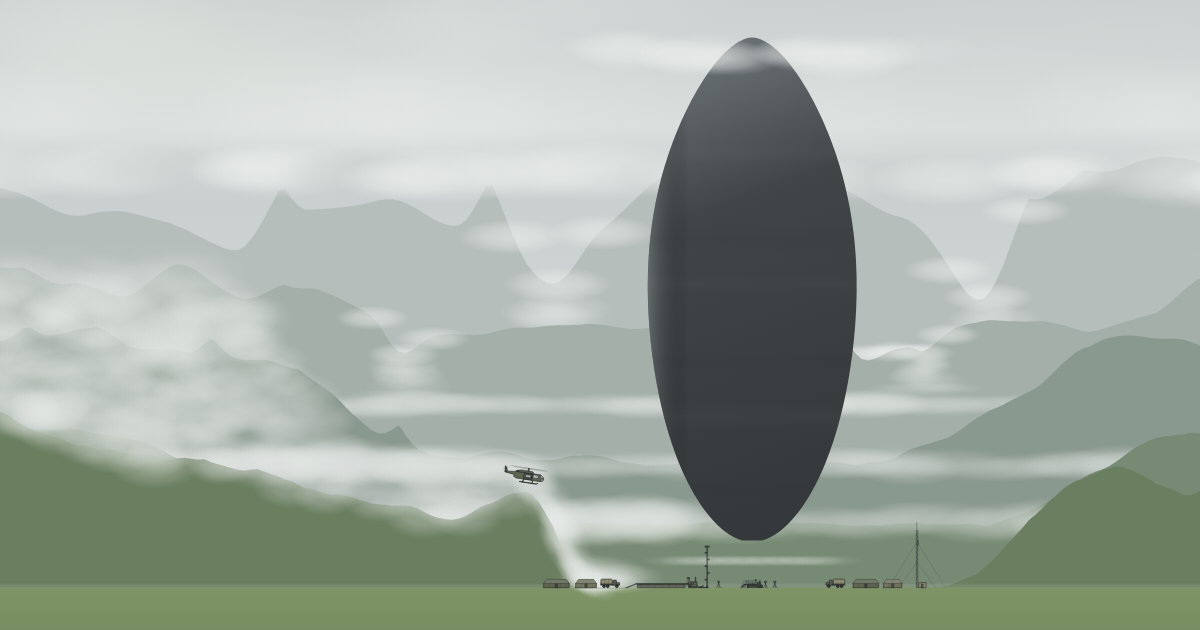
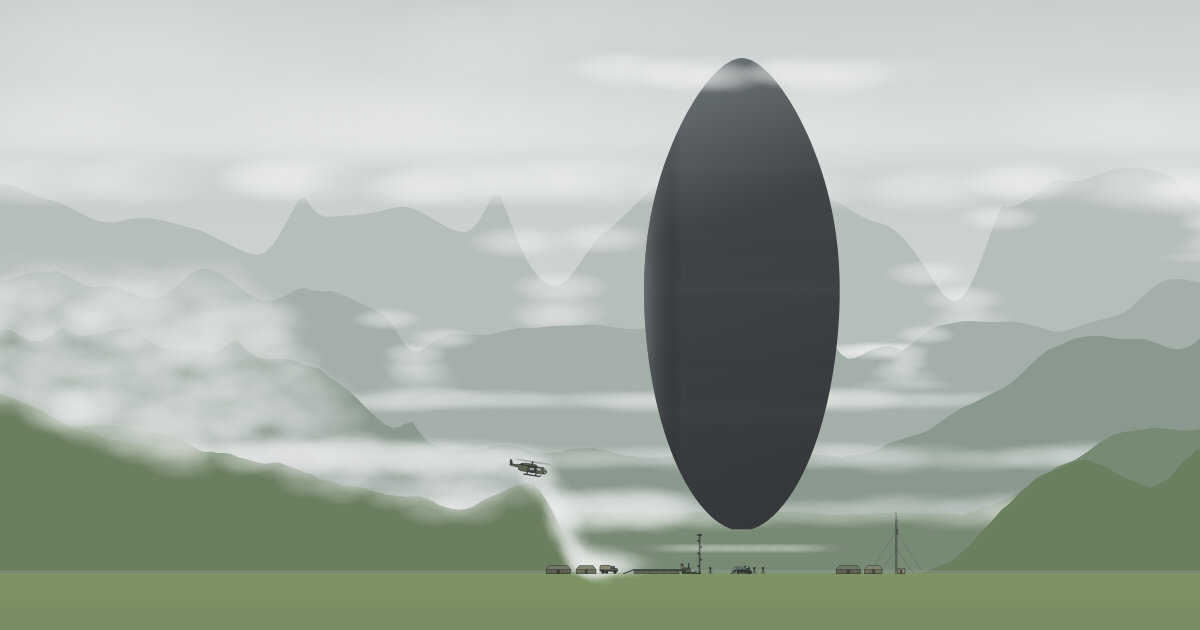
Logogram: the report follows the polish pass; the share card re-rendered
LOGOGRAM.md: the changed beats in the table (the reveal's cut, the slot held
open, the glass waking out of the dark, the entrances, the first logogram,
the flashes, the push, the meadow, the coda), the new times (credits at
219.6, 4:11 in all), the new checks, and a "Polish pass" section listing
what changed by beat. The share card (still 16.4, the great wide) is
re-rendered: the wide now comes by a cut, and the camp's right-hand truck
is gone.

diff --git a/apps/rube/src/shows/versions/heptapod-b/LOGOGRAM.md b/apps/rube/src/shows/versions/heptapod-b/LOGOGRAM.md
@@ -12,7 +12,7 @@ Open it at `/shows/heptapod-b/opus55/` (or `/shows/?show=heptapod-b&take=opus55`
 ## What it is
 
 A Rube Goldberg machine plays the cue from its first sample, 3:42, and the end credits run on in the quiet after it:
-4:08 in all. It is one ball on one path through four places, and it is a circle, as the film is: the last scene opens
+4:11 in all. It is one ball on one path through four places, and it is a circle, as the film is: the last scene opens
 on the show's first frame.
 
 - **Louise Banks** is the orange ball (`#E2672C`), hazmat orange, the suit the team wears into the shell. She is the
@@ -87,20 +87,20 @@ Times are show seconds; pulse *k* is `pulse(k)`, and a strength in brackets is h
 | Time | Music | Place | What happens |
 | ---: | --- | --- | --- |
 | 0 | murmurs | the lake house | Dawn. The long window over the lake, fog on the water. Louise on the bench under it; Hannah across the room. On the first murmur that carries (1.573) Hannah sets off, springs (3.582), lands on the bench's end (3.831) and touches her mother on the click (4.098). They turn to the window (5.242, 5.486); the sun catches the water on the first pulse (6.763), and the glare grows to white. |
-| 8.911 | the first great pulse (1.46) | the valley | Out of the white: the helicopter hanging in the cloud, Louise and Ian in its side window. It lurches off (9.741), pushes out of the cloud bank (11.099), and tops the crest on 16.283 (1.31): the great wide, the valley under low cloud, the fog pouring over the ridges, and the shell hanging over the meadow, the helicopter a speck against it. Nose up (18.013), and down to the pad on 22.059. |
-| 22.059 | the pulse whole | the base | The door hits its stop; out onto the helideck, Ian after her. Her machine: into a bucket whose rope is wound on the generator's flywheel, which thuds down and tips her out; the engine coughs and catches (28.021), puffing on every pulse, each puff as big as the pulse is hard; a plank tipped onto the switch; the mast's lamps come on one a pulse. **The first burst (36.368 → 37.808): the slot in the shell's belly opens in six steps**, its light spilling down on the camp, and the floods answer (38.534, 38.772, 39.735). Up the steps onto the lift's deck. |
+| 8.911 | the first great pulse (1.46) | the valley | Out of the white: the helicopter hanging in the cloud, Louise and Ian in its side window. It lurches off (9.741), pushes out of the cloud bank (11.099), and the camera goes with it over the ridge, never far enough back to see over it; it tops the crest on 16.283 (1.31) and the picture cuts to the great wide, the shell first seen whole: the valley under low cloud, the fog pouring over the ridges, and the shell hanging over the meadow, the helicopter a speck against it. Nose up (18.013), and down to the pad on 22.059. |
+| 22.059 | the pulse whole | the base | The door hits its stop; out onto the helideck, Ian after her. Her machine: into a bucket whose rope is wound on the generator's flywheel, which thuds down and tips her out; the engine coughs and catches (28.021), puffing on every pulse, each puff as big as the pulse is hard; a plank tipped onto the switch; the mast's lamps come on one a pulse. **The first burst (36.368 → 37.808): the slot in the shell's belly opens in six steps**, seen from under the belly, each step a flash of its light spilling down on the camp, held open until the floods answer (38.534, 38.772, 39.735). Up the steps onto the lift's deck. |
 | 43.758 | a hard pulse (1.16) | the lift | The scissor lift's engine catches; its seven stages open one after another from the bottom, each surging, stopping on its ram's end and latching on a pulse. Up into the band of fog under the belly (52.849), out of it on 54.509 (1.43), the fog it dragged up flung off; the look up at the belly's dome; the deck rising into the slot. |
 | 65.985 | the third layer | the shaft | Inside: the deck in the shaft's mouth, the camera turned a quarter, the valley's daylight glowing up the throat. The deck knocks home (67.431); she presses the work light's switch (68.383) and it catches (68.621), its beam going up the shaft. **On the great burst (70.513) she leaps and gravity turns under her**: her path the throw in a turning gravity, onto the wall that becomes the floor, the camera turning after gravity like a heavy body, a few degrees past square and settling, the dust turning with gravity. Landings and damped bounces on the burst's hard pulses, Ian a pulse behind; the work light tips on its yoke and knocks its bracket (71.703). Then the long shaft to the light in stone, its length shown in one breath, low floating hops over its ribs (the first leaving on 73.120), and a threshold ridge at the opening that Ian hops after her, landing on 85.786. |
-| 85.786 | a hard pulse (1.04) | the chamber | Out onto the chamber's floor in the dark. The glass wakes in two steps (87.226, 87.464): a great wall of white light. The walk to it; a shadow in the fog behind it, darkening on unseen footfalls (94.128, 96.044, 97.007). **Abbott comes out of the white on 97.239 (1.17)**, each limb set down on a hard pulse; **Costello on 101.303 (1.13)**. The grand wide: the glass, two giants, the two of them tiny at its foot. Abbott's limb reaches down, its tip opens into a palm (118.700), and **presses flat on the glass on 119.658 as she reaches it**. Costello's jet of ink (121.574), and the first logogram is written in the fog on the pulse (122.061, 123.257, 124.227) as the giants sink back into it, its two ends meeting on **126.131**, the last pulse before the swell: the whole logogram in the middle of the glass, larger than the palm by far, putting out its tendrils (127.321) through the swell to the white. |
+| 85.786 | a hard pulse (1.04) | the chamber | Out onto the chamber's floor in the dark. The glass, dark, wakes in two steps (87.226, 87.464): a great wall of white light. The walk to it; a shadow in the fog behind it, darkening on unseen footfalls (94.128, 96.044, 97.007). **Abbott comes out of the white on 97.239 (1.17)**, more than half the way at once, each limb set down on a hard pulse; **Costello on 101.303 (1.13)**. The grand wide: the glass, two giants, the two of them tiny at its foot. Abbott's limb reaches down, its tip opens into a palm (118.700), and **presses flat on the glass on 119.658 as she reaches it**. Costello's jet of ink (121.574), and the first logogram is written in the fog on the pulse (122.061, 123.257, 124.227) as the giants sink back into it, its two ends meeting on **126.131**, the last pulse before the swell: the whole logogram in the middle of the glass, larger than the palm by far, putting out its tendrils (127.321) through the swell to the white. |
 | 130.409 | the loudest swell | the fog | White. Beyond the glass she rests in the cup of Abbott's palm; Costello's jet goes down and a ring blooms from its bottom both ways round; the palm closes and she drops onto the ring as it arrives (133.573), and it closes over her (136.499), putting out its tendrils a pulse at a time. |
 | 139.476 | a hard pulse | the lake house | Summer on the grass by the shore: little Hannah running ahead, Louise after her; a leap, a skip, two skips more (141.380 → 141.868), still running when the cut takes her. |
-| 142.582 | | the fog | Ring to ring, each written on a pulse just before she lands on it; a bead on the ink's own inner edge in the fog's low gravity, flung on at a whip; a ring written from its top down, its arms meeting under her. |
+| 142.582 | | the fog | Ring to ring, framed wide so each is seen whole, each written on a pulse just before she lands on it; a bead on the ink's own inner edge in the fog's low gravity, flung on at a whip; a ring written from its top down, its arms meeting under her. |
 | 156.177 | a hard pulse (1.14) | the lake house | By the window, soft day: Hannah older, leaning on her; then she goes, off the bench and out of frame. |
 | 160.015 | | the fog | A crescent carries her once round. |
-| 163.126 | the hardest pulse after 8.911 (1.48) | the lake house | The window at dusk, the rain running on the panes, a drop landing on each hard pulse; Louise alone on the bench. |
-| 166.243 | the push | the fog | **She writes.** Flung up out of the crescent, she comes to the top of her rise where the great ring begins under her (168.136). It turns; she is its pen at its bottom, and Costello's front limb the pen at its top; each writes half. She works it like a ball in a turning drum: the ink carries her up the rising wall to a hang, and each group of hard pulses lets her go on its first (170.051, 173.383, and the biggest ride on 179.368), so she rolls back down through the rest, a blot pressed where she is on every one of the push's 21 hard pulses. **The halves meet on 183.182 (1.26)** with her still at the bottom, and the frame holds the whole of it to the cut while the tendrils fling out and the ring's turn slows to rest. |
+| 163.126 | the hardest pulse after 8.911 (1.48) | the lake house | The window at dusk, the rain running on the panes, a drop landing on each hard pulse with a glint; Louise alone on the bench. |
+| 166.243 | the push | the fog | **She writes.** Flung up out of the crescent, she comes to the top of her rise where the great ring begins under her (168.136), and the frame goes back to the whole of it, both pens in it, by 170.3. It turns; she is its pen at its bottom, and Costello's front limb the pen at its top; each writes half. She works it like a ball in a turning drum: the ink carries her up the rising wall to a hang, and the first hard pulse of each group flicks her off (170.051, 173.383, and the biggest ride, from 30° up the wall, on 179.368), so she swings back down through the rest, a blot pressed where she is on every one of the push's 21 hard pulses. **The halves meet on 183.182 (1.26)** with her still at the bottom, and the frame holds the whole of it to the cut while the tendrils fling out and the ring's turn slows to rest. |
 | 185.330 | the pulse thins | the valley | The meadow after, wide, Ian waiting by the trucks. The shell rises into the cloud and goes; the cloud opens, the light comes down, the fog lifts. From the cut back in (192.238) one push in on her where the first frame has her; Ian comes to her across the meadow, and they touch (195.344). |
-| 196.783 | the last clear pulse | the lake house | The first frame again. The held tones die. On the last flutter Hannah sets off (208.631), skips, dashes, springs and lands in the prologue's rhythm, and touches her on **212.312 (3.7)**. The sun comes through the fog on the water; the camera draws back to the whole window by 216.3, the two of them small in it, for the credits over the wall above it. |
+| 196.783 | the last clear pulse | the lake house | The first frame again. The held tones die. On the last flutter Hannah sets off (208.631), skips, dashes, springs and lands in the prologue's rhythm, and touches her on **212.312 (3.7)**. The sun comes through the fog on the water; as the held tones die the camera draws back, slowly, to the whole window by 219.3, the two of them small in it, for the credits in the silence over the wall above it. |
 
 ## The company
 
@@ -114,12 +114,12 @@ Times are show seconds; pulse *k* is `pulse(k)`, and a strength in brackets is h
 
 ## End credits
 
-The last flutter has rung away, and the camera has drawn back to the whole window (216.3 s). From 216.6 s over the wall above it the credits come, a card at a time, set by the page from
+The last flutter has rung away, the held tones have died, and the camera has drawn back to the whole window (219.3 s). From 219.6 s, in the silence, over the wall above it the credits come, a card at a time, set by the page from
 `Performance.titles(t)` (a show's canvas sets no type): Directed by Claude Opus 5.5; With Louise Banks (the orange
 ball), Ian Donnelly (the blue ball), Hannah (the little peach ball), Abbott and Costello (heptapods); Music, Jóhann
 Jóhannsson, "Heptapod B", with Joan La Barbara, from the soundtrack (Deutsche Grammophon, 2016); After Arrival, a film
 by Denis Villeneuve, from Ted Chiang's "Story of Your Life"; Drawn with p5.js. There is no title card. After the last
-card the room holds to the end, 248 s.
+card the room holds to the end, 251 s.
 
 ## What check:shows holds
 
@@ -183,7 +183,45 @@ camera stop-starts and parked holds, a music audit of the cue's hard pulses) and
   visibly, the push goes on to the touch, and the camera draws back to the whole window before the first card.
 - **Two seams** were the director's mistakes, caught by builders: the roll carried at the wrong angle into the
   shaft's mouth, and the last cut's framing not scaled to `FIRST`.
-- **Every hard pulse of the cue** (strength 1 or more) is struck: 214 strikes, none on a near-silent pulse.
+- **Every hard pulse of the cue** (strength 1 or more) is struck: 214 strikes, none on a near-silent pulse (217 after
+  the polish pass below).
+
+## Polish pass
+
+A second director's pass (Claude Opus 5.5, from a brief naming four worst beats), then a fresh critic's whole-film
+notes, then scrub, fix the worst, re-scrub. What changed, by beat:
+
+- **Gravity's turn** (70.513): the camera's roll was its own 1.45 s ease; now it follows gravity round as a heavy
+  body on a damped spring, lagging the turn, carried about three degrees past square as her first bounce lands, and
+  settling as the bounces die (`rollAt`).
+- **The first logogram** (122 → 130.4): it was a small ring off to one side, crossed by limbs, closing 0.7 s before
+  the white. It is larger (2.6 cells) and in the middle of the glass, sentence 1014 (no tendril standing up off it
+  like a thread), written on the pulses, its two ends running into each other on the last pulse before the swell
+  (126.131); the limbs the heptapods stand on sink back into the fog (`limbFog`) so the ink is the one dark thing;
+  the frame comes to rest on it as it closes and pushes in slowly through the swell while it grows a tenth larger to
+  the white; the floor goes white with the room.
+- **The Hannah flashes**: the summer vision had little Hannah going over the brow and down the bank toward the water
+  and out of the picture. The bank is off the picture now and it is a child at play: she runs ahead skipping on the
+  pulses, still running when the cut takes her. The rain's drops glint as they land on the dusk vision's hard
+  pulses.
+- **The circle** (192.2 → 196.783): the valley side rushed to its mark, zooming and sliding her a quarter of the
+  frame in the last 1.4 s. From the cut back in her place on the screen is the first frame's, and the camera only
+  pushes in, settling on the last clear pulse.
+- **The great logogram** (183.182): the camera dived in on her as soon as it closed, so it was whole for under a
+  second. It holds on the whole ring to the cut, and the valley opens wide on the meadow.
+- **The push** (166 → 183): she sat still for 14 s with Costello's pen out of the picture. Both pens are framed from
+  170.3; her rides up the wall are three, each flicked off on a hard pulse into a pendulum swing; her blots are pressed
+  in visibly on every hard pulse; Abbott's far answer and the fading crescent are gone from the picture.
+- **The shell's first sight** (16.283): it slid in cropped from the edge during a long pull; now the picture cuts to
+  it whole on the crest's pulse.
+- **The slot's burst** (36.368 → 38.534): the wide under the belly holds the slot open until the floods answer, each
+  step flashing, the helicopter out of the picture.
+- **The heptapods' entrances** (97.239, 101.303) come out of the white on the pulse, not over half a second.
+- **The glass** sits dark until it wakes, not a grey slab down the shaft.
+- **Fog2's rings** are framed wide enough to be seen whole; Costello stands further back in the white there.
+- **The meadow**: the truck that stood cut in half by the frame's edge through the reunion is gone.
+- **The coda**: a six-second draw back as the held tones die, and the credits in the silence after (219.6; the show
+  is 251 s).
 
 ## Arrival nods
 
